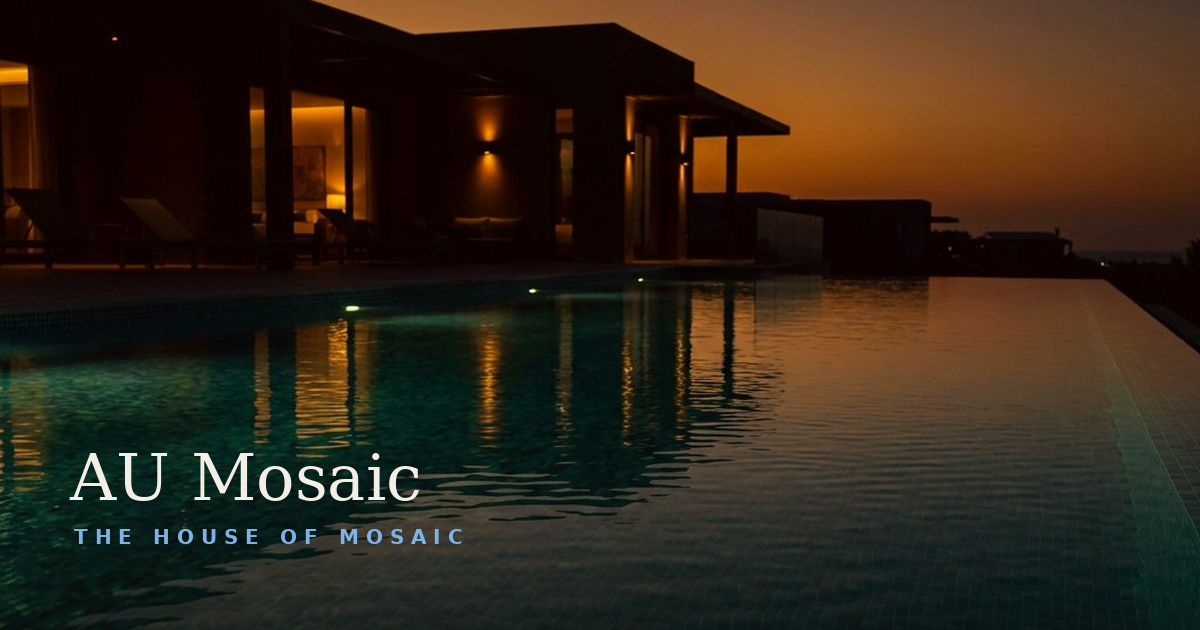
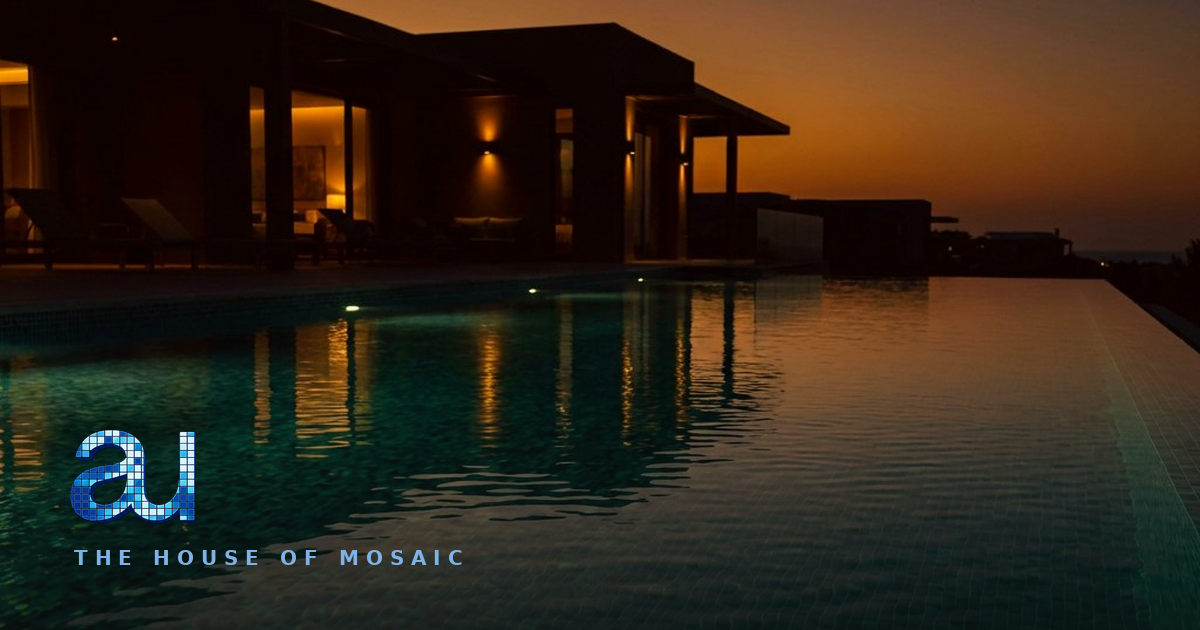
Every surface answers to the sign
The manifest grounds on royal night; the og card carries his mark
in the shadowed band; the structured data learns the logo property;
and the exclusive paper joins the language, mark beside serif on
the lockup law, the ornament row in the sign's own blues. One
identity, every door.

Changed region(s): [[0.0617, 0.6635, 0.4008, 0.9048]]

diff --git a/src/app/(site)/layout.tsx b/src/app/(site)/layout.tsx
@@ -19,6 +19,7 @@ const jsonLd = {
   url: SITE.url,
   telephone: SITE.phoneDisplay,
   image: `${SITE.url.replace(/\/$/, "")}/og.png`,
+  logo: `${SITE.url.replace(/\/$/, "")}/media/logo/mark.png`,
   priceRange: "₦₦",
   address: {
     "@type": "PostalAddress",

diff --git a/scripts/invoice.py b/scripts/invoice.py
@@ -42,11 +42,27 @@ BRASS = (0xC2 / 255, 0xA1 / 255, 0x5C / 255)
 GOLD_DEEP = (0x8F / 255, 0x74 / 255, 0x34 / 255)
 STONE = (0xB8 / 255, 0xB2 / 255, 0xA6 / 255)
 
-TILE_ROW = [BRASS, GOLD_DEEP, DUSK, STONE, INK]
+# The ornament row wears the sign's own blues now: the paper and
+# the logo speak one language.
+ROYAL_DEEP = (0x12 / 255, 0x27 / 255, 0x5E / 255)
+ROYAL_NAVY = (0x1E / 255, 0x3E / 255, 0x90 / 255)
+ROYAL = (0x2B / 255, 0x5F / 255, 0xC7 / 255)
+SKY = (0x7F / 255, 0xB3 / 255, 0xE8 / 255)
+GLASS = (0xC8 / 255, 0xE0 / 255, 0xF5 / 255)
+TILE_ROW = [ROYAL_DEEP, ROYAL_NAVY, ROYAL, SKY, GLASS]
 
 PAGE_W, PAGE_H = A4
 MARGIN = 64
 NAIRA = "₦"
+
+# The owner's sign, trimmed of its whisper-alpha, for the header.
+from PIL import Image as PILImage  # noqa: E402
+from reportlab.lib.utils import ImageReader  # noqa: E402
+
+_mark_im = PILImage.open(ROOT / "assets/brand/au-logo-master.png").convert("RGBA")
+_mark_a = _mark_im.split()[3].point(lambda v: 255 if v > 24 else 0)
+MARK = _mark_im.crop(_mark_a.getbbox())
+MARK_READER = ImageReader(MARK)
 
 SITE = {
     "short": "AU Mosaic",
@@ -249,10 +265,14 @@ def draw_invoice(order, out_pdf: Path):
     money_serif = "MaisonSerif" if has_glyph("MaisonSerif", NAIRA) else "MaisonSans"
 
     def header(y):
-        # The wordmark and the house facts.
+        # The owner's sign, then the word, the lockup law on paper:
+        # the mark at the wordmark's letter height, baselines married.
+        mark_h = 15
+        mark_w = mark_h * MARK.width / MARK.height
+        c.drawImage(MARK_READER, MARGIN, y - 2, width=mark_w, height=mark_h, mask="auto")
         c.setFillColorRGB(*INK)
         c.setFont("MaisonSerif", 21)
-        c.drawString(MARGIN, y, "AU Mosaic")
+        c.drawString(MARGIN + mark_w + 6, y, "Mosaic")
         c.setFont("MaisonSans", 8)
         c.setFillColorRGB(*DUSK)
         for i, line in enumerate([SITE["name"], order["facts"]["location"], order["facts"]["phone"]]):

diff --git a/scripts/og-card.py b/scripts/og-card.py
@@ -30,14 +30,21 @@ for y in range(H):
 img.paste(Image.new("RGB", (W, H), (12, 11, 9)), (0, 0), overlay)
 
 d = ImageDraw.Draw(img)
-serif = ImageFont.truetype("/usr/share/fonts/truetype/dejavu/DejaVuSerif.ttf", 64)
 caps = ImageFont.truetype("/usr/share/fonts/truetype/dejavu/DejaVuSans-Bold.ttf", 20)
 
-d.text((70, H - 190), "AU Mosaic", font=serif, fill=(243, 239, 230))
+# The owner's own sign carries the card: his mark, trimmed of its
+# whisper-alpha, set in the shadowed band.
+mark = Image.open("assets/brand/au-logo-master.png").convert("RGBA")
+ma = mark.split()[3].point(lambda v: 255 if v > 24 else 0)
+mark = mark.crop(ma.getbbox())
+mh = 96
+mark = mark.resize((round(mark.width * mh / mark.height), mh), Image.LANCZOS)
+img.paste(mark, (70, H - 200), mark)
+
 # Letterspaced eyebrow in the brand sky blue.
 x = 74
 for ch in "THE HOUSE OF MOSAIC":
-    d.text((x, H - 105), ch, font=caps, fill=(127, 179, 232))
+    d.text((x, H - 84), ch, font=caps, fill=(127, 179, 232))
     x += d.textlength(ch, font=caps) + 7
 
 img.save(OUT, "PNG")

diff --git a/docs/QA.md b/docs/QA.md
@@ -323,6 +323,7 @@ until a logo asset exists.
 | The descender pit, found by arithmetic | Not quite there, said the eye, for the third time, so the dials gave way to font metrics. The house serif on his machine is Didot, and Didot's line box carries a descender zone near 0.19em below the baseline at the word's size: the invisible pit every small nudge failed to climb, which is why the sign kept reading as a subscript. Computed seat: the mark at 1.45 times Didot's x-height, 0.91em, lifted 0.15em, the pit depth less the file's own overshoot. The lesson for the ledger: when optical alignment resists three nudges, stop nudging and read the font's numbers. Lint clean, 45 routes build. |
 | The word grows a little, the seat holds | Finally tracks, said the owner, and asked one more turn: the wordmark up a touch. The serif rises 1.4em to 1.5em and the mark's height and lift ride the same ratio, 0.97em seated at minus 0.16, so the alignment won by arithmetic does not reopen. The lockup is settled: his file, his proportions, the descender pit mapped and paid. Lint clean, 45 routes build. |
 | Another turn of the word | The wordmark rises again, 1.5em to 1.6em, mark and lift riding the locked ratio at 1.04em seated minus 0.17. The seat holds by construction now: every future size turn is one word-size number and the arithmetic follows. Lint clean, 45 routes build. |
+| Every surface answers to the sign | The alignment sweep the owner called: everything that says this is the house now points at his logo. The PWA manifest grounds on royal night with royal day chrome. The og card retires its typed name and carries his mark in the shadowed band under the sky eyebrow. The structured data gains the logo property beside sameAs, so search engines learn the sign the customers know. And the exclusive paper joins the language: the mark rides at the wordmark's letter height beside the serif, baselines married by the same lockup law, while the five-tesserae ornament trades the old metals for the sign's own blues. Icons were already his file; the room voice already relights the other houses. One identity, every door. Lint clean, 45 routes build. |
 | The silhouette dies in the showroom | The smooth-outline experiment ran as a picture in a folder, never a commit: bitmap to marching squares to Chaikin curves, fine tesserae clipped inside, edge tiles slicing like the print. The owner's eye ruled in three words and the ruling is final: the pixel-grid sign IS the identity. No smooth-silhouette treatment of the mark again; the letterform question is closed unless the client's own source file reopens it. Nothing shipped, nothing reverted, one lesson recorded. |
 | The boundary audit, checklist one | The owner's first stacked checklist, run and written. The walk found two missing doors and one scattered truth. The public flagship had no error boundary at all: a client crash (the visualizer being the likeliest) would have shown a customer the machinery; the maison now answers with a calm line, a gold Try again, and the chat that never goes down, while details whisper only to the console. Office 404s used to walk the owner out to the shop window; That page is not in the book now keeps him inside, one gold back to the glance. And rowsOf moved home: one normaliser owned by src/db, imported at every raw execute (insights, panel layout, digest), so no room maps the driver envelope again. Verified in the same pass: redirects and notFound throw outside every try, actions answer in sentences instead of throwing at the UI, the panel layout re-checks the door on every render so Try again cannot swallow an auth redirect, and global-error stays honestly Missing, accepted, until the static shell ever earns one. The audit table lives in SAAS-QA. Lint clean, 44 routes build. |
 | The float steps aside on piece pages | The owner's design question, answered by the house's own laws. The WhatsApp float is the one saturated brand-foreign colour in the maison (the palette law says no saturated fills), it competes with the gold singleton (standing rule 19), and it speaks Material where the house speaks HIG. On piece pages it was strictly redundant: the piece bar already carries the same WhatsApp action in house clothes, and the two shared the bottom edge. So it steps aside there, one floating chrome per screen. Everywhere else it keeps its seat for now, because Lagos knows the green circle and law 6 says commerce stays human. The verdict on the rest belongs to evidence: the float signs its taps (data-wa float), so the Where the taps come from panel decides in a few weeks whether it stays, dresses in house clothes, or retires. Lint clean, 44 routes build. |